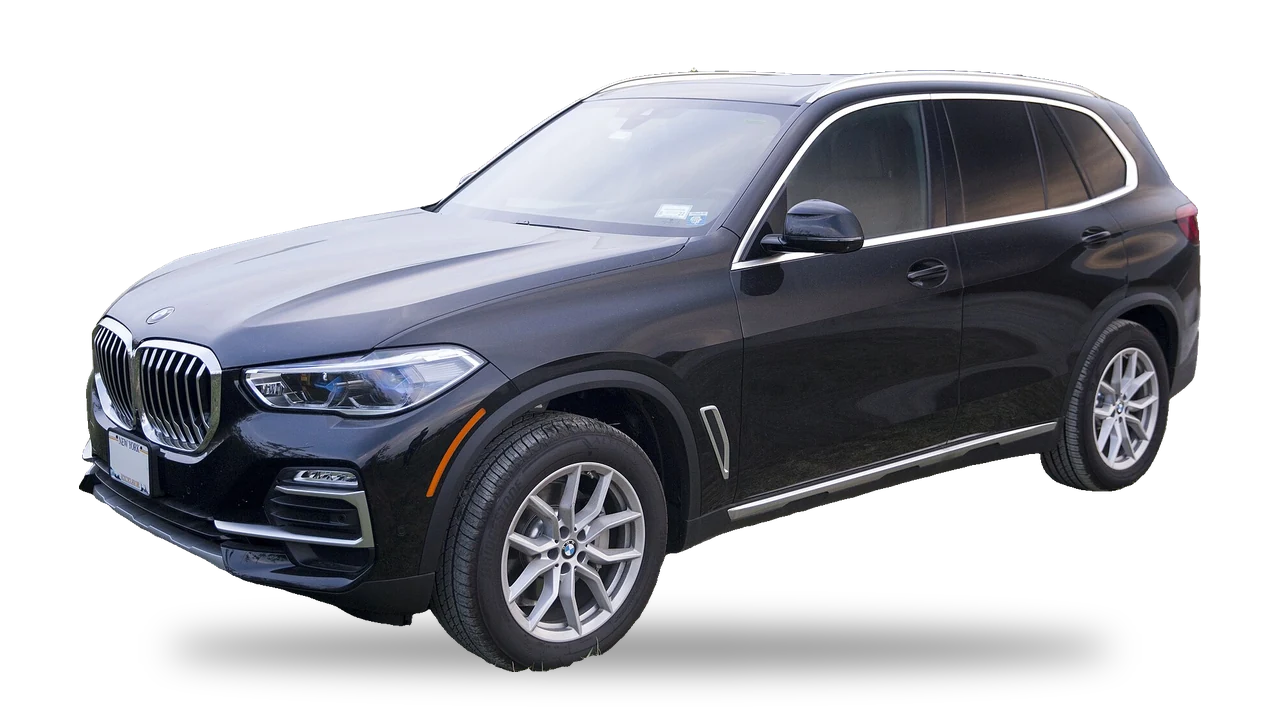
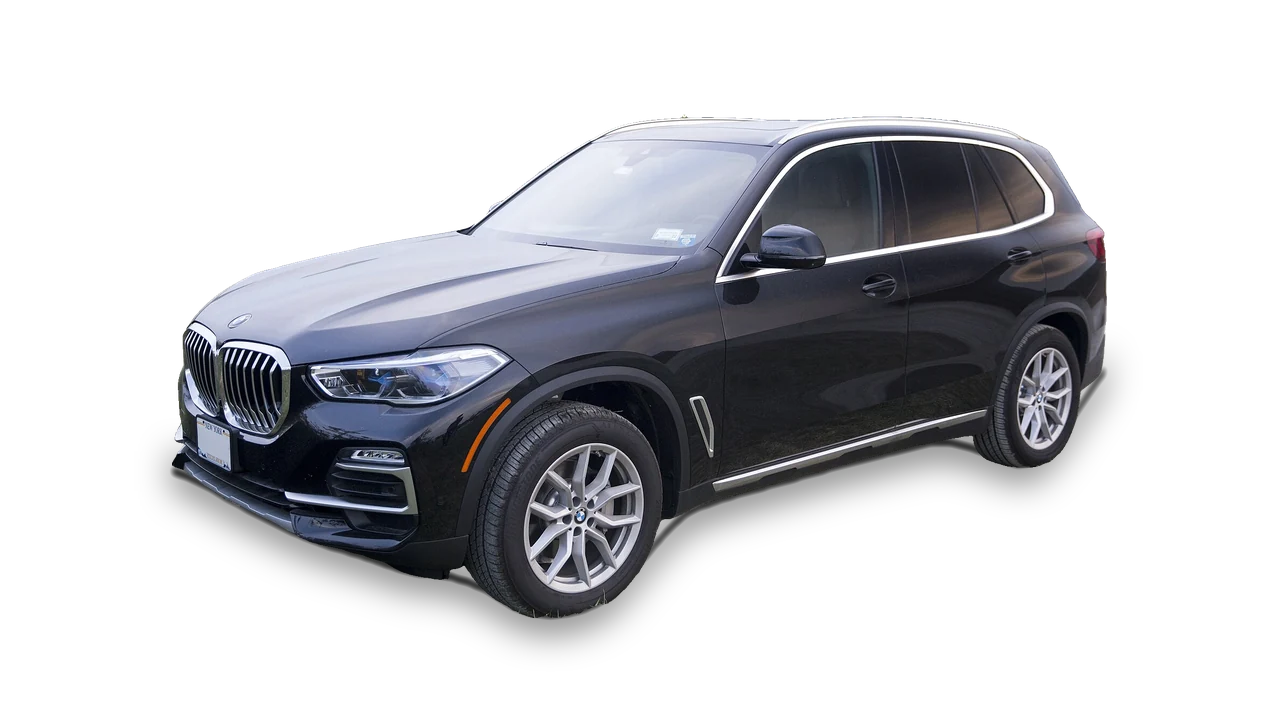
Fotos dos carros: um pouco mais pequenas e sombra colada às rodas
A sombra segue o contorno de baixo de cada carro, em vez de uma elipse solta por baixo, e o carro passa a ocupar 80% da largura.

Claude-Session: https://claude.ai/code/session_018qbjZHkm8eoEPFpeFo12Mg

diff --git a/assets/carros/CREDITOS.md b/assets/carros/CREDITOS.md
@@ -1,6 +1,6 @@
 # Créditos das fotos dos carros
 
-Todas as fotos vêm do Wikimedia Commons. Foram alteradas: o fundo foi removido (só fica o carro, em WebP transparente), com uma sombra suave por baixo, e todas têm o mesmo enquadramento em 16:9 (1280 × 720).
+Todas as fotos vêm do Wikimedia Commons. Foram alteradas: o fundo foi removido (só fica o carro, em WebP transparente), com uma sombra de contacto por baixo das rodas, e todas têm o mesmo enquadramento em 16:9 (1280 × 720), com o carro a 80% da largura.
 As licenças CC BY e CC BY-SA exigem o nome do autor e a licença junto da foto; a app mostra-os por baixo do carro.
 
 | Ficheiro | Modelo | Autor | Licença | Original |
